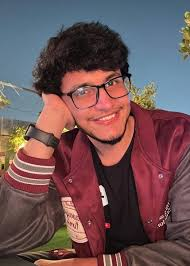
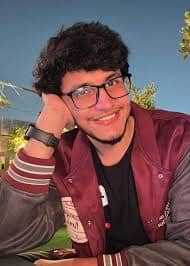
compressed the images and used the next js image element to show the images, given the fad effect to the marquee

diff --git a/src/component/hero-section.tsx b/src/component/hero-section.tsx
@@ -3,6 +3,7 @@ import { useEffect, useState } from "react";
 import { AuroraText } from "@/component/magicui/aurora-text";
 import { cn } from "@/lib/utils";
 import Image from "next/image";
+import { Marquee3D } from "@/component/magicui/marquee";
 
 // Add CSS animation for smooth word transitions
 const wordAnimationStyle = `
@@ -13,8 +14,8 @@ const wordAnimationStyle = `
   }
 `;
 
-const PLACE1_WORDS = ["Brand", "Business", "Startup", "MSME", "SME"];
-const PLACE2_WORDS = ["Creator", "Influencer"];
+const PLACE1_WORDS = ["Brand ?", "Business ?", "Startup ?", "MSME ?", "SME ?"];
+const PLACE2_WORDS = ["Creator ?", "Influencer ?"];
 
 function WordRotator({ words, interval = 1500, className }: { words: string[]; interval?: number; className?: string }) {
   const [index, setIndex] = useState(0);
@@ -47,14 +48,24 @@ export function HeroSection() {
       {/* Left: Text */}
       <div className="flex-1 flex flex-col items-start justify-center max-w-xl gap-6">
         <h1 className="text-3xl md:text-5xl font-bold leading-tight">
-          Are you <AuroraText className="inline-block transition-colors duration-700 ease-in-out"><WordRotator words={PLACE1_WORDS} /></AuroraText>?
+          Are you <AuroraText className="inline-block transition-colors duration-700 ease-in-out"><WordRotator words={PLACE1_WORDS} /></AuroraText>
           <br />
-          Struggling to find <AuroraText className="inline-block transition-colors duration-700 ease-in-out"><WordRotator words={PLACE2_WORDS} interval={2000} /></AuroraText>?
+          Struggling to find <AuroraText className="inline-block transition-colors duration-700 ease-in-out"><WordRotator words={PLACE2_WORDS} interval={2000} /></AuroraText>
         </h1>
-        <h2 className="text-lg md:text-2xl font-medium text-gray-700 dark:text-gray-200">
+        <h2 className="text-lg md:text-2xl font-medium text-gray-700 dark:text-gray-200 relative">
+          <span className="absolute -left-6 top-1/2 transform -translate-y-1/2 w-1 h-8 bg-gradient-to-b from-[#9146FF] to-purple-600 rounded-full"></span>
           Get your brand identity in seconds using{" "}
           <AuroraText className="inline-block font-extrabold text-2xl md:text-3xl transition-colors duration-700 ease-in-out">Circle</AuroraText> in seconds
         </h2>
+      </div>
+      
+      {/* Right: Marquee */}
+      <div className="flex-1 flex items-center justify-center relative">
+        <Marquee3D />
+        <div className="pointer-events-none absolute inset-x-0 top-0 h-1/4 bg-gradient-to-b from-background"></div>
+        <div className="pointer-events-none absolute inset-x-0 bottom-0 h-1/4 bg-gradient-to-t from-background"></div>
+        <div className="pointer-events-none absolute inset-y-0 left-0 w-1/4 bg-gradient-to-r from-background"></div>
+        <div className="pointer-events-none absolute inset-y-0 right-0 w-1/4 bg-gradient-to-l from-background"></div>
       </div>
     </section>
     </>

diff --git a/src/component/magicui/marquee.tsx b/src/component/magicui/marquee.tsx
@@ -1,6 +1,7 @@
 "use client";
 import { cn } from "@/lib/utils";
 import { ReactNode, useEffect, useRef, useState } from "react";
+import Image from "next/image";
 
 interface MarqueeProps {
   children: ReactNode;
@@ -132,12 +133,14 @@ const ReviewCard = ({
         "relative h-48 w-36 cursor-pointer overflow-hidden rounded-xl border border-gray-200/20 transition-all duration-300 mx-2"
       )}
     >
-      {/* Background Image or Placeholder */}
-      <div
-        className="absolute inset-0 bg-cover bg-center bg-no-repeat"
-        style={{
-          backgroundImage: `url(${img})`,
-        }}
+      {/* Optimized Next.js Image */}
+      <Image
+        src={img}
+        alt={name}
+        fill
+        className="object-cover rounded-xl"
+        sizes="(max-width: 768px) 100vw, 200px"
+        priority={false}
       />
       {/* Blur Effect at Bottom */}
       <div className="absolute bottom-0 left-0 right-0 h-16 bg-gradient-to-t from-black/20 to-transparent backdrop-blur-md" />
@@ -160,7 +163,7 @@ function splitIntoGroups(arr: Review[], groupSize: number): Review[][] {
 }
 
 export function Marquee3D() {
-  const groups = splitIntoGroups(reviews, 4); // 3 groups of 4
+  const groups = splitIntoGroups(reviews, 3); // 4 groups of 3
   return (
     <div className="relative flex h-96 w-full flex-row items-center justify-center gap-4 overflow-hidden [perspective:300px] bg-transparent">
       <div
@@ -176,10 +179,10 @@ export function Marquee3D() {
             pauseOnHover
             vertical
             className="[--duration:40s] bg-transparent"
-            reverse={idx === 1} // alternate direction for middle column
+            reverse={idx % 2 === 1} // alternate direction for every other column
           >
             <div className="flex flex-col gap-4 bg-transparent">
-              {Array.from({ length: 20 }).map((_, repeatIdx) =>
+              {Array.from({ length: 2 }).map((_, repeatIdx) =>
                 group.map((review, i) => (
                   <ReviewCard key={review.username + i + '-' + repeatIdx} {...review} />
                 ))
